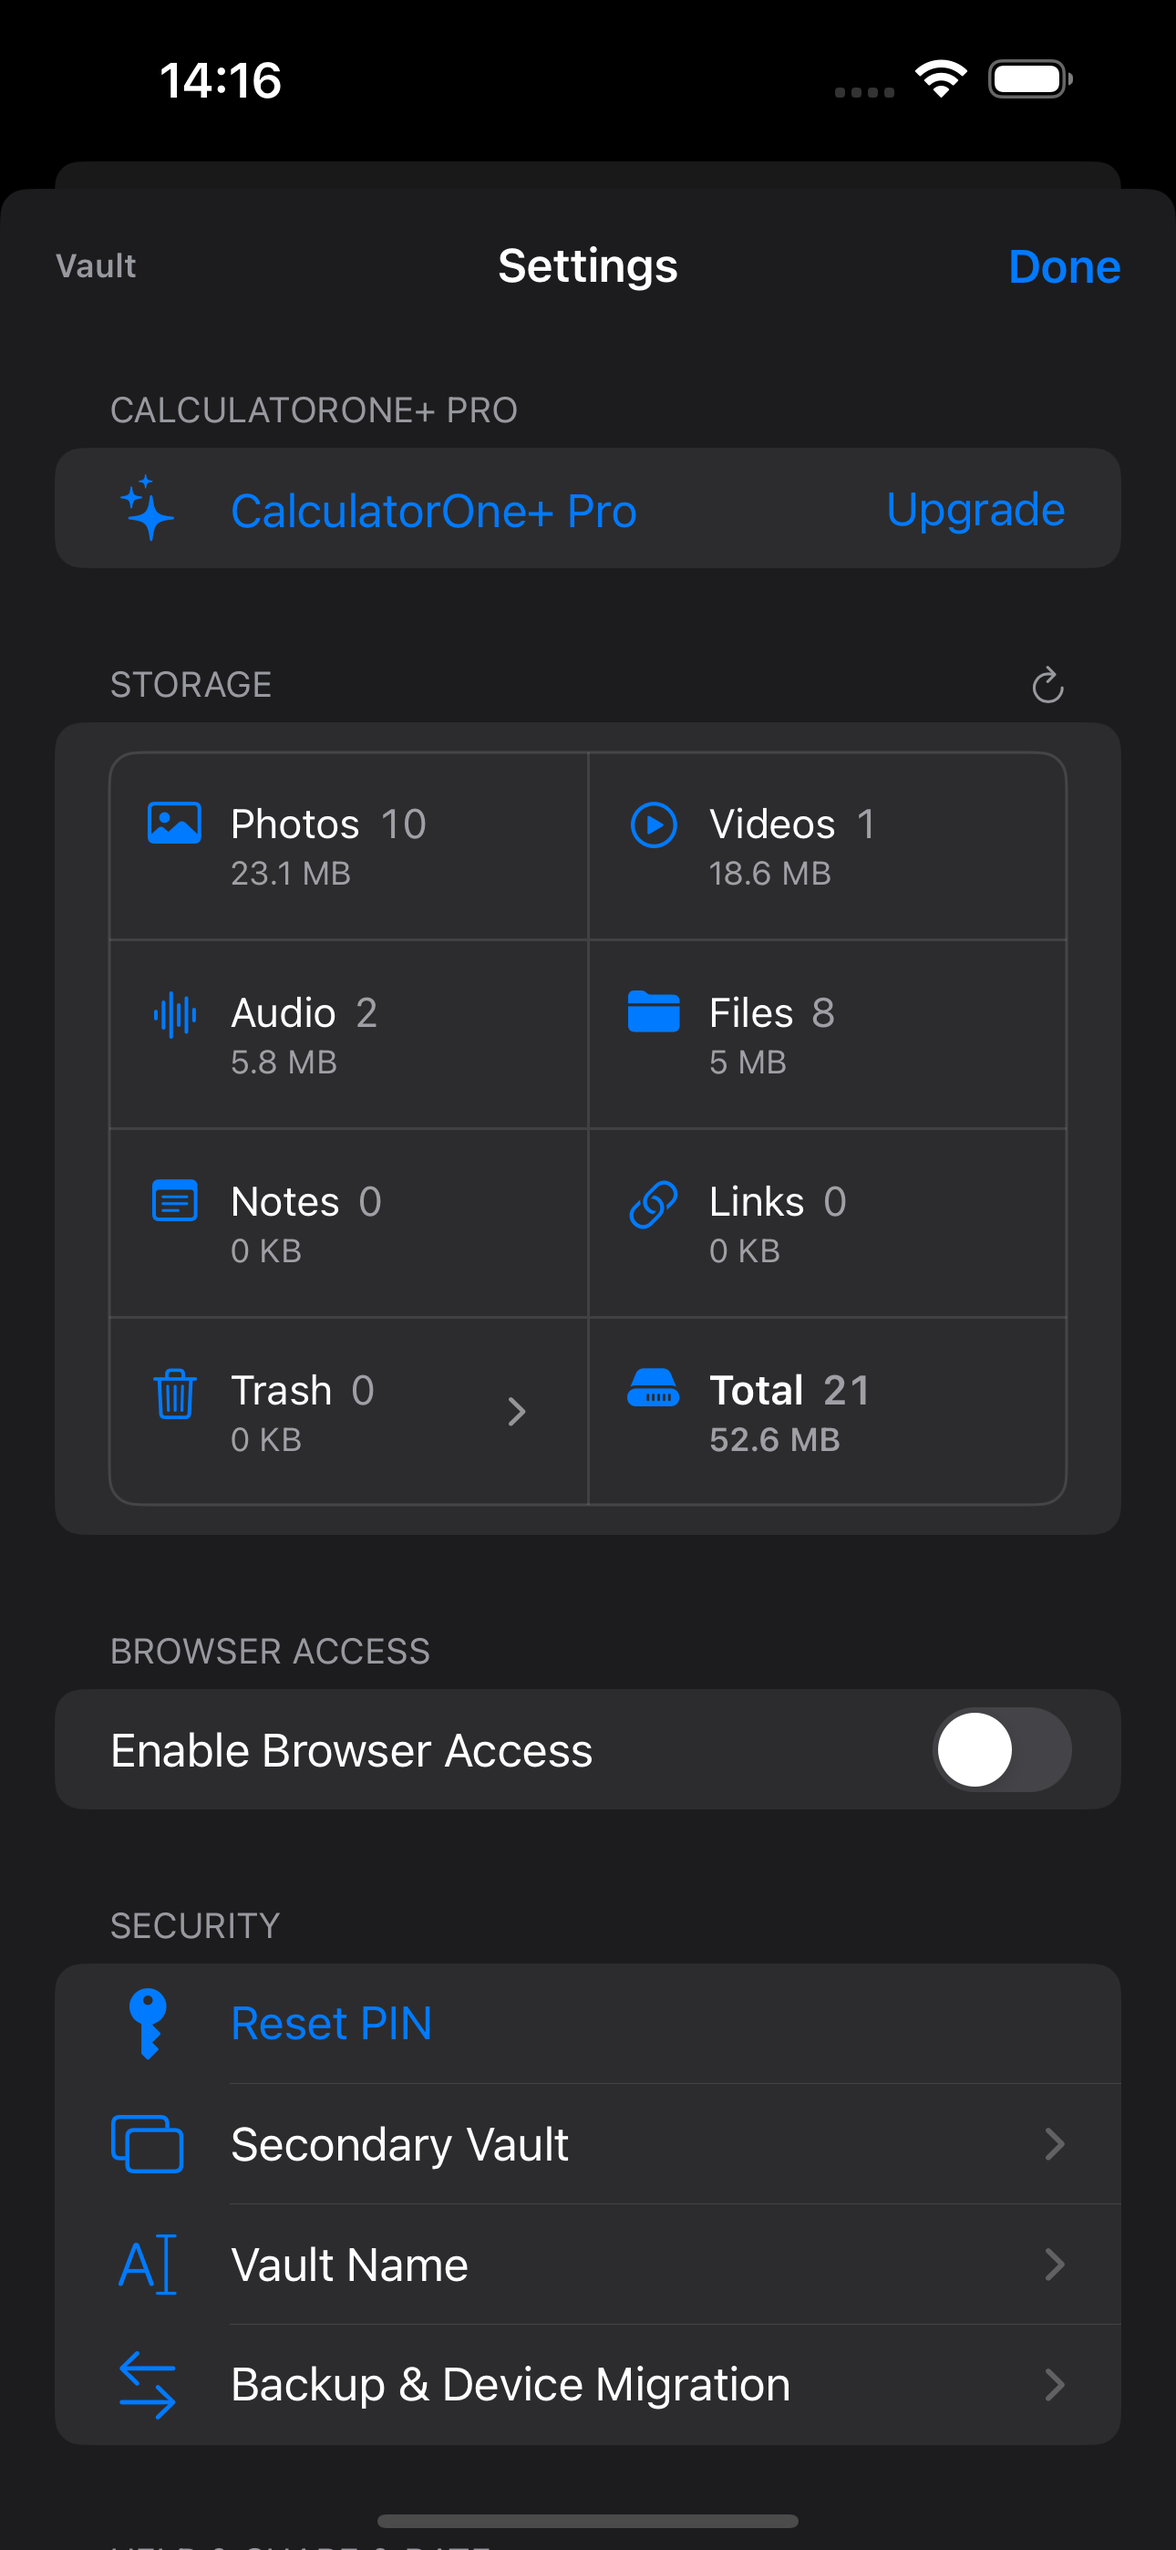
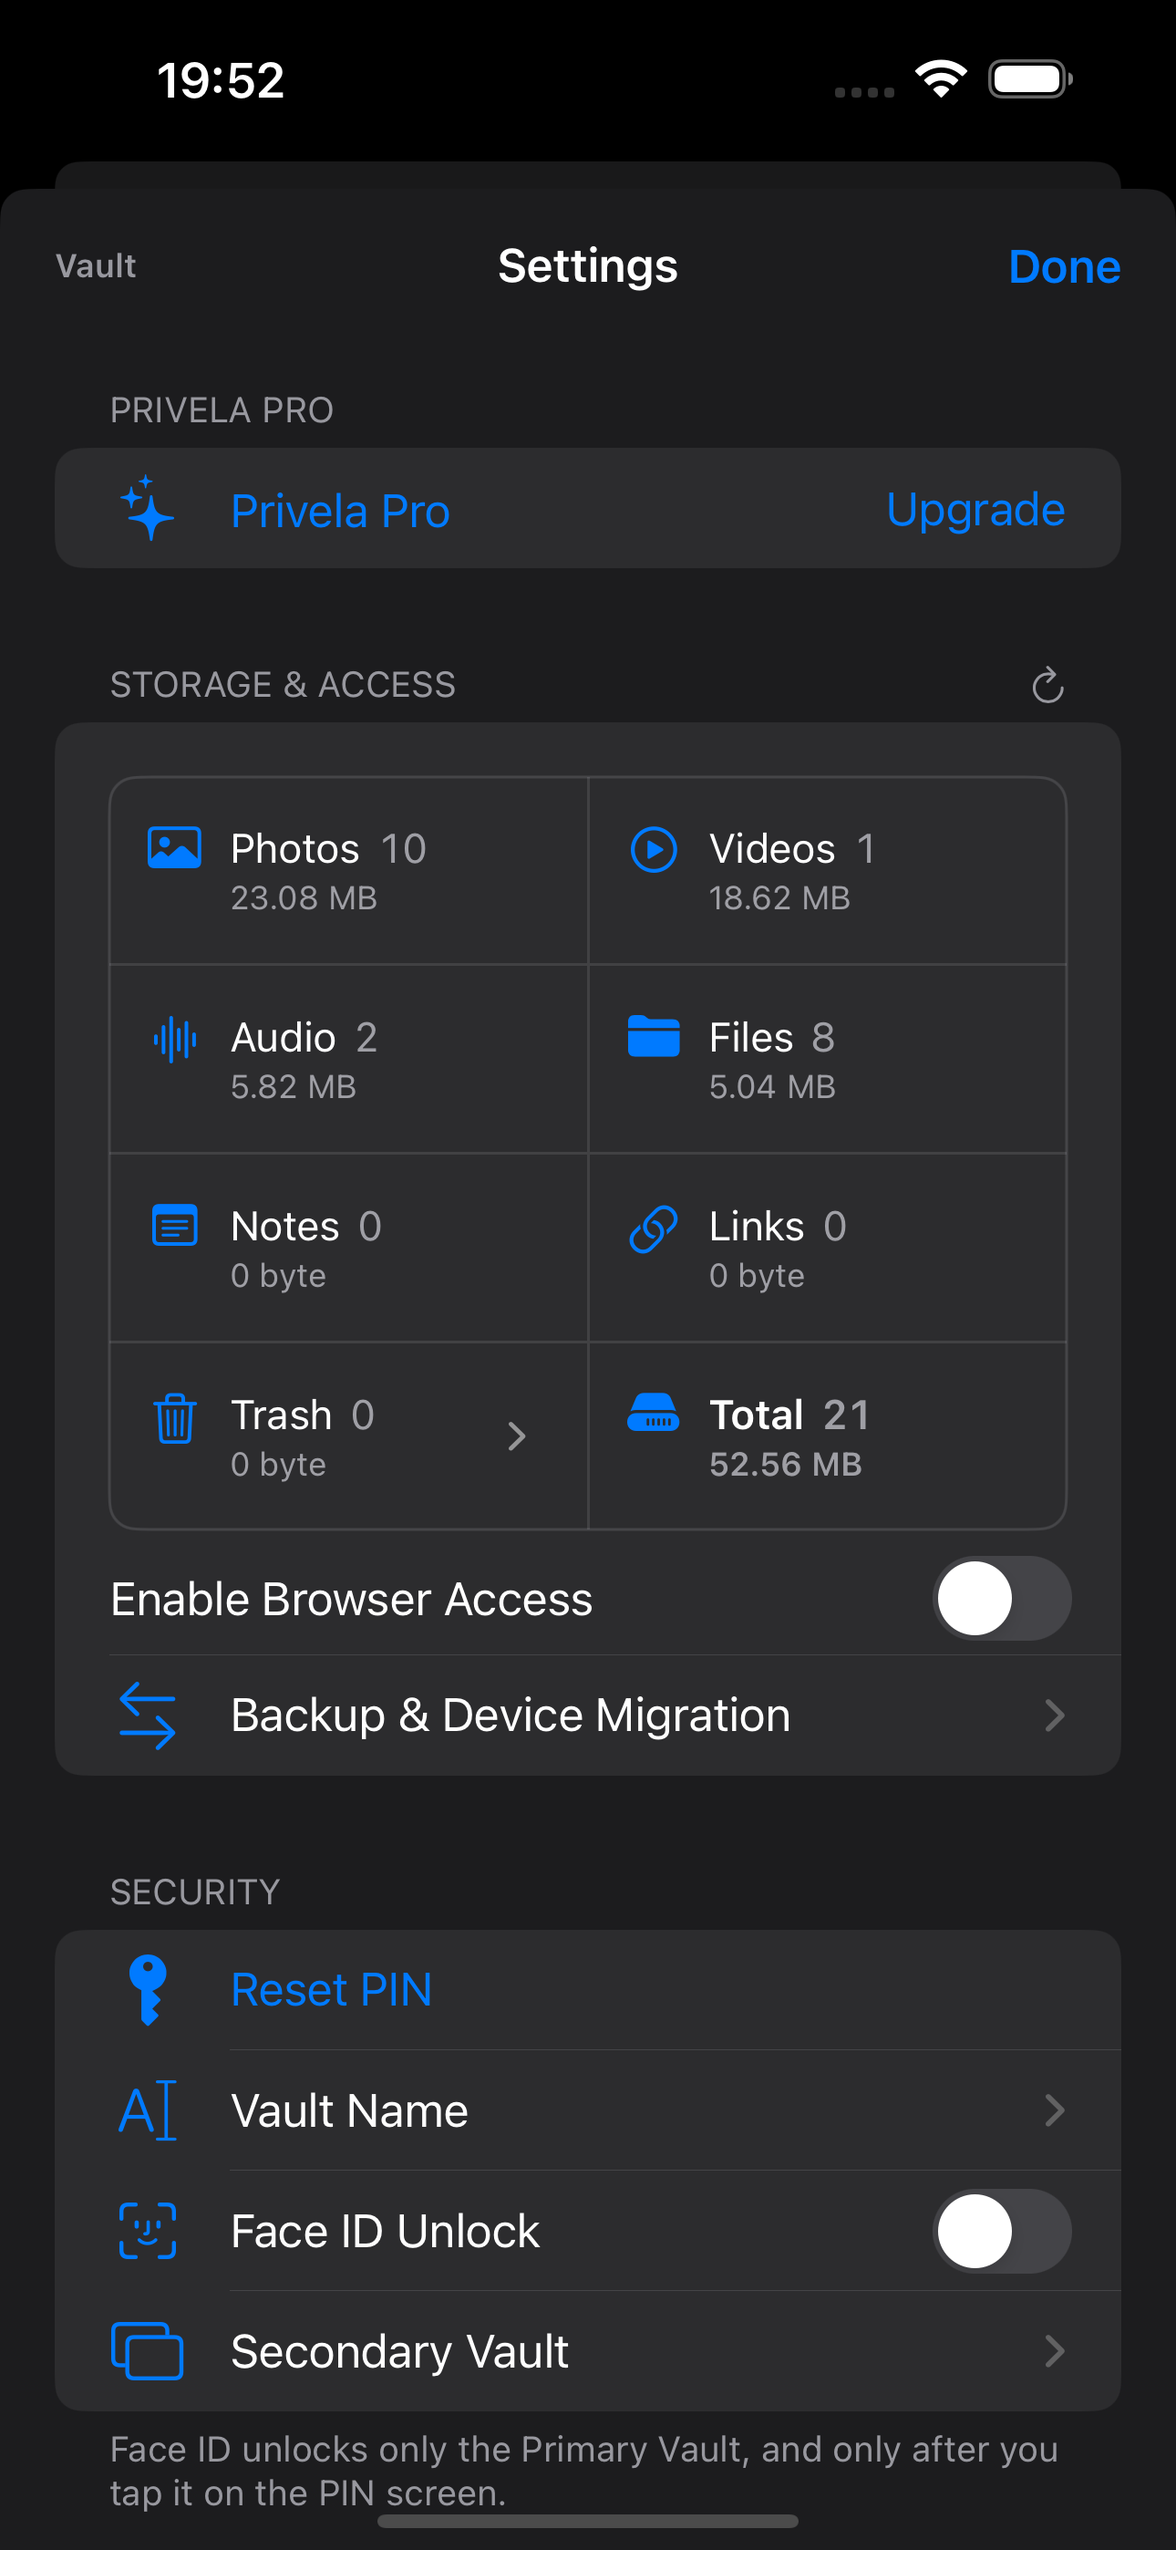
fix: refresh website v1.2 screenshots

diff --git a/index.html b/index.html
@@ -3,11 +3,11 @@
 <head>
   <meta charset="utf-8">
   <meta name="viewport" content="width=device-width, initial-scale=1">
-  <meta name="description" content="Privela is a PIN-protected local vault for photos, videos, audio, files, notes, and links on iPhone.">
-  <meta property="og:title" content="Privela — A Private Local Vault for iPhone">
-  <meta property="og:description" content="Keep photos, videos, audio, files, notes, and links organized on your iPhone with PIN access and no account.">
+  <meta name="description" content="Privela is a PIN-protected local vault app for photos, videos, audio, files, notes, and links, with an optional independent Secondary Vault on iPhone.">
+  <meta property="og:title" content="Privela — Private Local Vaults for iPhone">
+  <meta property="og:description" content="Keep photos, videos, audio, files, notes, and links organized on your iPhone with a Primary Vault, an optional independent Secondary Vault, and no account.">
   <meta property="og:image" content="assets/app-icon.png">
-  <title>Privela — A Private Local Vault for iPhone</title>
+  <title>Privela — Private Local Vaults for iPhone</title>
   <link rel="icon" href="assets/app-icon.png">
   <link rel="stylesheet" href="styles.css">
 </head>
@@ -23,9 +23,9 @@
     <section class="hero">
       <div class="hero-grid shell">
         <div>
-          <p class="eyebrow">A private local vault for iPhone</p>
+          <p class="eyebrow">Private local vaults for iPhone</p>
           <h1>Your content, organized on device.</h1>
-          <p class="hero-copy">Privela keeps photos, videos, audio, files, notes, and links in a PIN-protected local vault. No account and no developer-operated cloud storage.</p>
+          <p class="hero-copy">Privela keeps photos, videos, audio, files, notes, and links in a PIN-protected Primary Vault, with an optional independent Secondary Vault. No account and no developer-operated cloud storage.</p>
           <div class="actions"><a class="button primary" href="https://apps.apple.com/app/id6773389987" target="_blank" rel="noopener">Download on the App Store</a><a class="button" href="support.html">Get support</a><a class="button" href="#features">Explore features</a></div>
         </div>
         <div class="hero-visual" aria-label="Privela app screenshots">
@@ -37,14 +37,14 @@
 
     <section class="band white" id="features">
       <div class="shell">
-        <div class="section-head"><p class="eyebrow">Built for your device</p><h2>Six content types. One local vault.</h2><p>Import, capture, organize, and transfer content with clear controls. Privela keeps the vault on your iPhone; ads help support ongoing development.</p></div>
+        <div class="section-head"><p class="eyebrow">Built for your device</p><h2>Six content types. Independent local vaults.</h2><p>Import, capture, organize, and transfer content with clear controls. Each Privela vault stays on your iPhone; ads help support ongoing development.</p></div>
         <div class="feature-grid">
           <article class="feature"><div class="feature-mark"></div><h3>Six content types</h3><p>Keep Photos, Videos, Audio, Files, Notes, and Links together as equal content types in the vault.</p></article>
           <article class="feature"><div class="feature-mark"></div><h3>Inbox from other apps</h3><p>Send supported media, files, and URLs from the iOS Share sheet or Action extension to a protected Inbox before organizing them.</p></article>
           <article class="feature"><div class="feature-mark"></div><h3>Albums, folders, and Trash</h3><p>Use custom albums and Files folders, sort content, move items in batches, and recover or permanently delete Trash items.</p></article>
-          <article class="feature"><div class="feature-mark"></div><h3>One encrypted vault</h3><p>Your local vault is protected by a PIN, with optional Face ID for the Primary Vault after you choose it.</p></article>
+          <article class="feature"><div class="feature-mark"></div><h3>Independent Primary and Secondary Vaults</h3><p>Keep a Primary Vault and, with Pro, create one independent Secondary Vault with a different PIN. Their encrypted content stays separate.</p></article>
           <article class="feature"><div class="feature-mark"></div><h3>Local transfer tools</h3><p>Browser Access and device migration use trusted local WiFi; encrypted archives stay under your control and can be restored when you choose.</p></article>
-          <article class="feature"><div class="feature-mark"></div><h3>One-time Pro upgrade</h3><p>Pro is a non-consumable purchase, not a subscription. It adds more organization capacity, archive creation, migration sending, and removes banner ads.</p></article>
+          <article class="feature"><div class="feature-mark"></div><h3>One-time Pro upgrade</h3><p>Pro is a non-consumable purchase, not a subscription. It adds Secondary Vault creation, more organization capacity, archive creation, migration sending, and removes banner ads.</p></article>
         </div>
       </div>
     </section>
@@ -54,7 +54,7 @@
         <div class="showcase-copy">
           <p class="eyebrow">Simple by design</p>
           <h2>More than a photo vault.</h2>
-          <p>Keep everyday content in one local library while preserving clear boundaries: notes are editable text, links stay URL-only, and transfers start only when you choose.</p>
+          <p>Keep everyday content in local vaults while preserving clear boundaries: notes are editable text, links stay URL-only, and transfers start only when you choose.</p>
           <ul class="checklist"><li>Browse Photos and Videos in grid or list mode, with sorting</li><li>Edit Notes and open or share saved Links in the in-app browser</li><li>Review Inbox items before moving them into albums or folders</li><li>Inbox and Trash use clear retention and recovery controls</li><li>Initiate Browser Access, archive export/restore, and migration explicitly</li></ul>
         </div>
         <div class="shots"><img src="assets/files-main-directory.png" alt="Privela Files tab with folders and files"><img src="assets/import-options.png" alt="Privela Settings showing Storage, Browser Access, and vault security"></div>
@@ -63,7 +63,7 @@
 
     <section class="band privacy-band" id="privacy">
       <div class="privacy-grid shell">
-        <div><p class="eyebrow">Privacy first</p><h2>No account. Your vault stays local.</h2></div>
+        <div><p class="eyebrow">Privacy first</p><h2>No account. Your vaults stay local.</h2></div>
         <div class="privacy-points">
           <div><strong>Content stays local</strong><span>Your photos, videos, audio, files, notes, and saved URLs are stored on your device and are not uploaded to our servers.</span></div>
           <div><strong>Ads stay separate from your content</strong><span>Privela may display ads provided by Google AdMob. Your vault content, names, PIN, and recovery information are not shared with the advertising service.</span></div>

diff --git a/support.html b/support.html
@@ -7,7 +7,7 @@
     <aside class="doc-aside"><p>Support</p><a href="#start">Getting started</a><a href="#content">Content types</a><a href="#sharing">Sharing and Inbox</a><a href="#transfer">Transfers and backup</a><a href="#pro">Privela Pro</a><a href="#security">Security and vaults</a><a href="#faq">Common questions</a><a href="#contact">Contact</a></aside>
     <article class="document">
       <p class="eyebrow">Help center</p><h1>Support</h1><p class="updated">Guidance for using Privela</p>
-      <p>Privela is a PIN-protected local vault for Photos, Videos, Audio, Files, Notes, and Links. It does not require an account or developer-operated cloud storage.</p>
+      <p>Privela provides a PIN-protected Primary Vault and an optional independent Secondary Vault for Photos, Videos, Audio, Files, Notes, and Links. It does not require an account or developer-operated cloud storage.</p>
       <h2 id="start">Getting Started</h2>
       <ul><li>Create your PIN when you first open Privela.</li><li>Import selected photos and videos, capture media with the camera, or add audio and files from the system pickers.</li><li>Create notes or save HTTP/HTTPS links from the app or another app's Share sheet.</li><li>Use albums and Files folders to organize content stored inside the app.</li></ul>
       <h2 id="content">Content Types and Organization</h2>
@@ -25,9 +25,9 @@
       <h2>Transfer Troubleshooting</h2>
       <ul><li>Confirm every device is connected to the same trusted WiFi network.</li><li>Allow Local Network access for Privela in iOS Settings if prompted.</li><li>Some guest, public, VPN, or enterprise networks block device-to-device connections.</li><li>Keep both devices unlocked and Privela open during Device Migration.</li></ul>
       <h2 id="pro">Privela Pro</h2>
-      <p>Privela Pro is a one-time, non-consumable purchase. It unlocks unlimited custom albums and Files folders, encrypted archive export, sending a device migration, and removal of in-app banner ads. It is not a subscription and does not include cloud storage.</p>
+      <p>Privela Pro is a one-time, non-consumable purchase. It unlocks creation of one Secondary Vault, unlimited custom albums and Files folders, encrypted archive export, sending a device migration, and removal of in-app banner ads. It is not a subscription and does not include cloud storage.</p>
       <h2 id="security">Security and local vaults</h2>
-      <p>Privela provides one app-local encrypted vault. Face ID can unlock the Primary Vault only after you tap the Face ID button on the PIN screen; it is never started automatically. Photos are imported only after an explicit user selection; the app does not hide, delete, or modify assets in the system Photos library.</p>
+      <p>Privela provides a Primary Vault and an optional Secondary Vault. They use different PINs and keep encrypted content, albums, files, Trash, and vault settings separate. Face ID can unlock the Primary Vault only after you tap the Face ID button on the PIN screen; it is never started automatically. Photos are imported only after an explicit user selection; the app does not hide, delete, or modify assets in the system Photos library.</p>
       <p>To restore a previous purchase, open Settings &gt; Privela Pro and choose Restore Purchases. If a purchase does not appear, confirm you are using the Apple Account that made the purchase and contact Apple Support for billing issues.</p>
       <h2 id="faq">Common Questions</h2>
       <details><summary>Does Privela upload my photos?</summary><p>No. Content is stored locally on your device and is not uploaded to a developer-operated cloud service.</p></details>

diff --git a/terms.html b/terms.html
@@ -8,11 +8,11 @@
     <article class="document">
       <p class="eyebrow">Legal</p><h1>Terms of Use</h1><p class="updated">Last updated: August 19, 2026</p>
       <p>These Terms of Use govern your use of Privela. By using the app, you agree to these terms.</p>
-      <h2 id="use">Use of the App</h2><p>Privela provides local organization for Photos, Videos, Audio, Files, Notes, and Links with PIN access for content stored on your device. You are responsible for using the app lawfully and for keeping your device, PIN, and backup settings secure.</p>
+      <h2 id="use">Use of the App</h2><p>Privela provides local organization for Photos, Videos, Audio, Files, Notes, and Links in one or two PIN-protected vaults on your device. You are responsible for using the app lawfully and for keeping your device, PIN, and backup settings secure.</p>
       <h2 id="content">Your Content</h2><p>You retain ownership of the content you import, capture, store, or export with Privela. You are responsible for ensuring that you have the right to store and manage that content.</p>
       <h2 id="backup">No Cloud Backup Service</h2><p>Privela is not a cloud storage or backup service. Saved Links store addresses, not offline copies of web pages. If you delete the app, erase your device, lose access to your device, or forget recovery information, locally stored content may be permanently unavailable. Maintain your own backups when needed.</p>
       <h2>Browser Access and Device Migration</h2><p>Browser Access and Device Migration are intended for use only on trusted WiFi networks. Browser Access is a temporary local service. Device Migration requires compatible devices on the same network. Stop Browser Access when you are finished and keep devices unlocked while a migration is in progress.</p>
-      <h2>Privela Pro</h2><p>Privela Pro is a one-time, non-consumable In-App Purchase processed by Apple. It is not a subscription and does not include cloud storage. You can use Restore Purchases in the app to restore an eligible purchase for the Apple Account that made it. Billing, payment, and refund requests are handled by Apple under its applicable terms and policies.</p>
+      <h2>Privela Pro</h2><p>Privela Pro is a one-time, non-consumable In-App Purchase processed by Apple. It unlocks creation of one Secondary Vault, plus other benefits described in the app. It is not a subscription and does not include cloud storage. You can use Restore Purchases in the app to restore an eligible purchase for the Apple Account that made it. Billing, payment, and refund requests are handled by Apple under its applicable terms and policies.</p>
       <h2>Advertising</h2><p>Privela may display advertising supplied by third-party advertising services, including Google AdMob. Advertising availability, format, and personalization may vary by region, device settings, and consent choices. Third-party advertising services are governed by their own terms and privacy policies.</p>
       <h2>Prohibited Uses</h2><p>You may not use Privela to store, transfer, or manage content that violates applicable law, infringes others' rights, or is harmful, abusive, or exploitative.</p>
       <h2>Disclaimer</h2><p>Privela is provided "as is" without warranties of any kind, to the fullest extent permitted by law. We do not guarantee uninterrupted operation, data recovery, or compatibility with every device, network, or backup configuration.</p>

diff --git a/privacy.html b/privacy.html
@@ -7,11 +7,11 @@
     <aside class="doc-aside"><p>On this page</p><a href="#collection">Information</a><a href="#content">Vault content</a><a href="#advertising">Advertising</a><a href="#permissions">Permissions</a><a href="#transfer">Local transfer</a><a href="#contact">Contact</a></aside>
     <article class="document">
       <p class="eyebrow">Legal</p><h1>Privacy Policy</h1><p class="updated">Last updated: August 19, 2026</p>
-      <p>Privela is designed as a local vault for Photos, Videos, Audio, Files, Notes, and Links with PIN access. This policy explains what information the app handles and how it is protected.</p>
+      <p>Privela is designed as local PIN-protected vaults for Photos, Videos, Audio, Files, Notes, and Links. This policy explains what information the app handles and how it is protected.</p>
       <h2 id="collection">Information We Do Not Collect</h2>
       <p>Privela does not require an account and we do not operate a cloud service for your content. We do not collect contact lists, precise location data, payment information, or the contents of your media library.</p>
       <h2 id="content">Vault Content</h2>
-      <p>Photos, videos, audio, files, notes, and saved HTTP/HTTPS URLs that you import, capture, or create are stored locally on your device. Content is protected on device and is not uploaded to our servers. A saved Link contains the address and related local metadata; Privela does not archive the web page or its contents. If you delete the app, the local data stored by the app may also be removed by iOS.</p>
+      <p>Photos, videos, audio, files, notes, and saved HTTP/HTTPS URLs that you import, capture, or create are stored locally on your device. Primary and optional Secondary Vault content is kept in separate encrypted storage areas. Content is protected on device and is not uploaded to our servers. A saved Link contains the address and related local metadata; Privela does not archive the web page or its contents. If you delete the app, the local data stored by the app may also be removed by iOS.</p>
       <h2>App Lock Information</h2>
       <p>Privela may store local security settings, such as lock configuration and recovery information, on your device. This information is used only to provide the app lock and recovery experience.</p>
       <h2 id="transfer">Local Transfers and Link Imports</h2>
